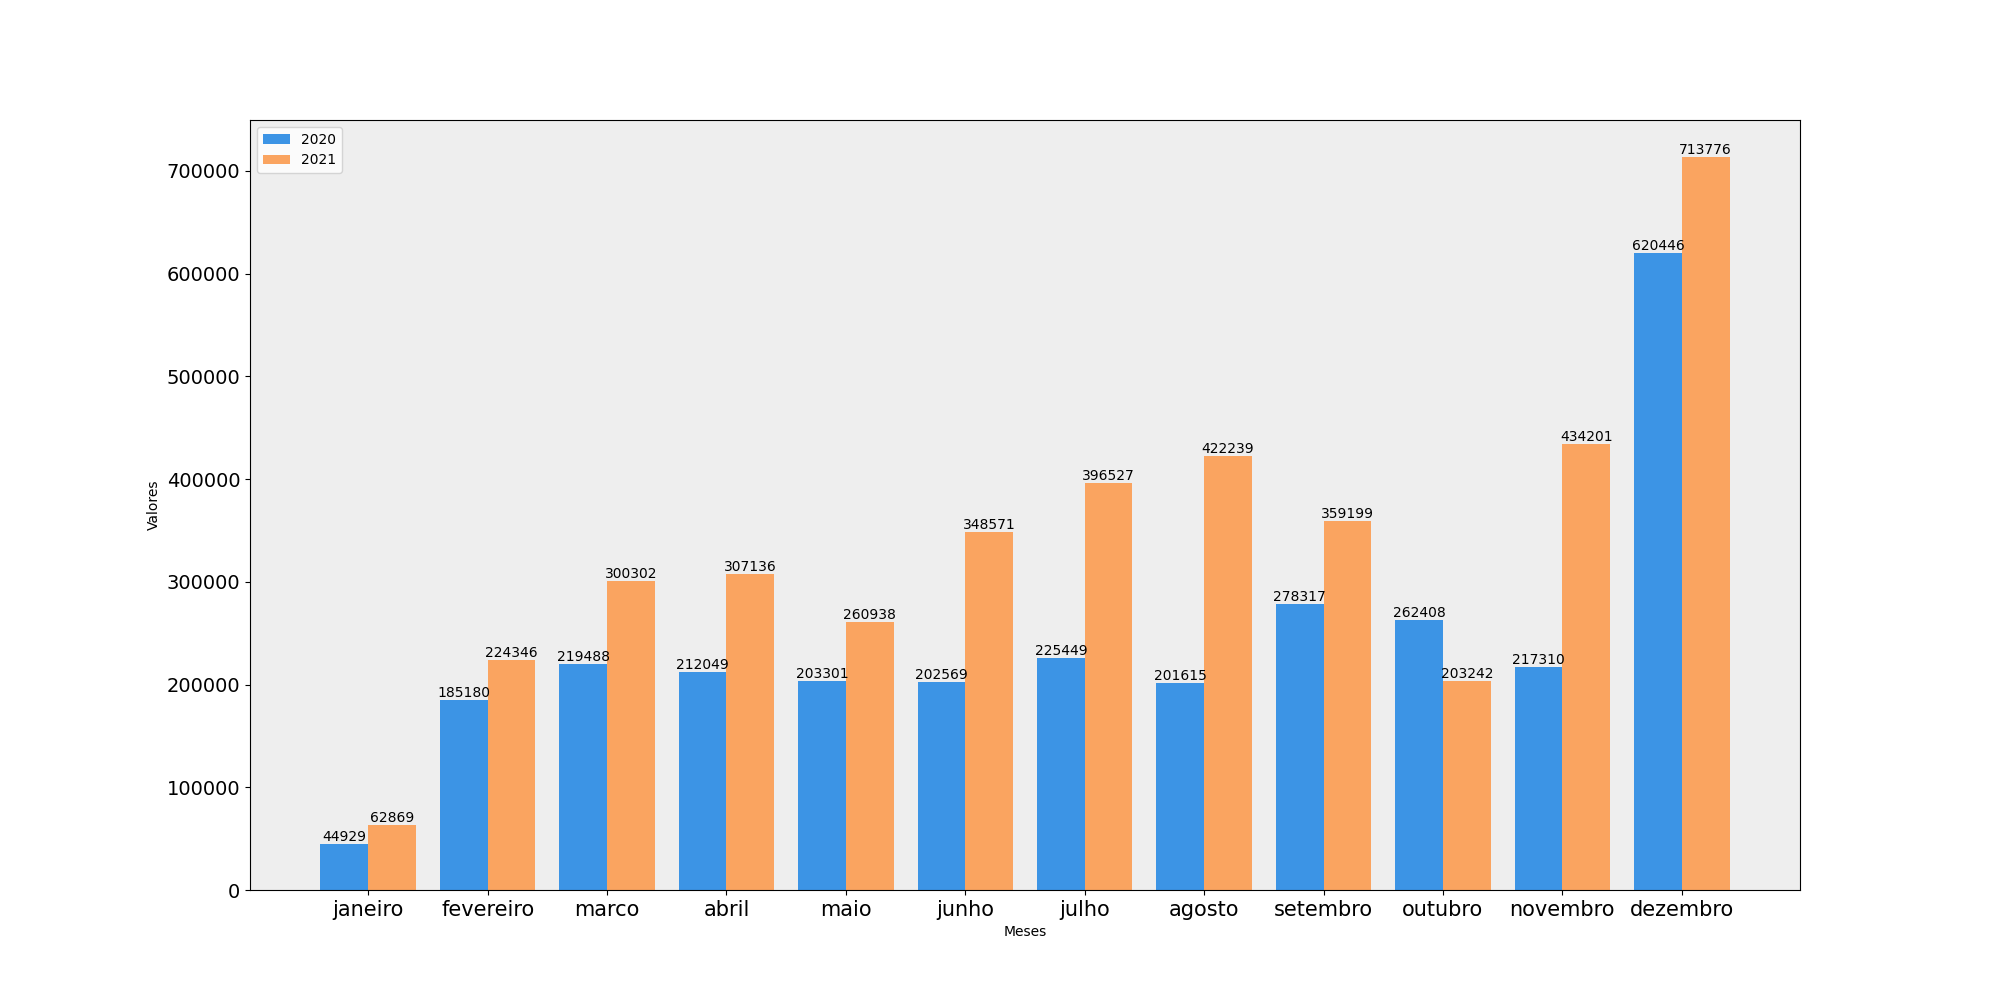
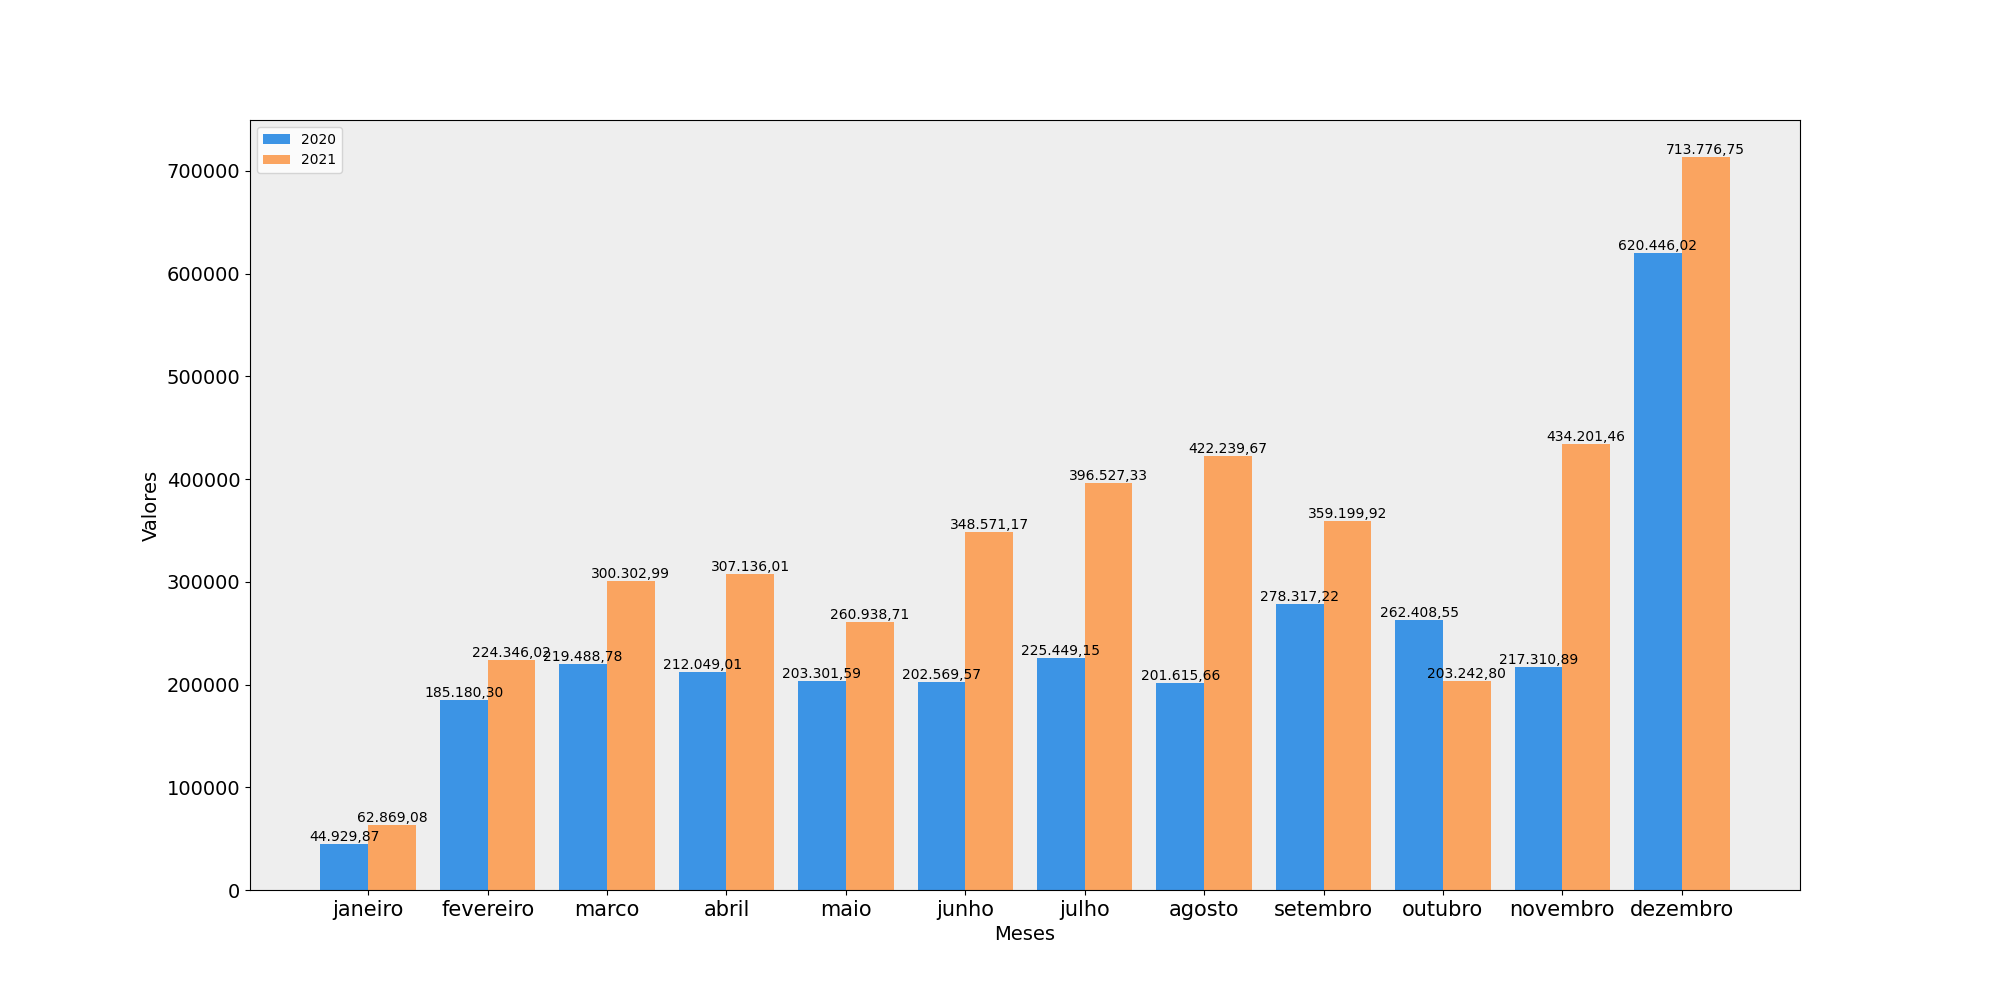
up

diff --git a/apps/grafico/views.py b/apps/grafico/views.py
@@ -346,6 +346,7 @@ class GerarRelatorioGrafico(LoginRequiredMixin, View):
                     meses = meses_list[indice_filtro_1:indice_filtro_2 +1]
 
                     valores_2 = list(objeto[mes] for mes in meses )  
+                    print(valores_2[0])
         else:
             valores_2 = valores
 
@@ -363,23 +364,26 @@ class GerarRelatorioGrafico(LoginRequiredMixin, View):
         # plt.plot(meses_1, valores_1, marker='o', linestyle='-', color='b', label=ano_1)
         # plt.plot(meses_2, valores_2, marker='o', linestyle='--', color='r', label=ano_2)
 
-        # Adicionar valores em cima das barras
+        # Função para formatar o valor em R$
+        def formatar_valor(valor):
+            return f'{valor:,.2f}'.replace(',', 'X').replace('.', ',').replace('X', '.')
+
+        # Adicionar valores em cima das barras com formatação R$
         for bar in bars1:
             yval = bar.get_height()  # Obtém a altura da barra
-            plt.text(bar.get_x() + bar.get_width() / 2, yval, int(yval), ha='center', va='bottom')  # Adiciona o texto
+            plt.text(bar.get_x() + bar.get_width() / 2, yval, formatar_valor(yval), ha='center', va='bottom')  # Adiciona o texto com rotação
 
-        # Adicionar valores em cima das barras
         for bar in bars2:
             yval = bar.get_height()  # Obtém a altura da barra
-            plt.text(bar.get_x() + bar.get_width() / 2, yval, int(yval), ha='center', va='bottom')  # Adiciona o texto
+            plt.text(bar.get_x() + bar.get_width() / 2, yval, formatar_valor(yval), ha='center', va='bottom')  # Adiciona o texto com rotação
 
         # Alterar a cor de fundo da área do gráfico
         plt.gca().set_facecolor('#eeeeee') 
 
         # Título e rótulos
         # plt.title('Gráfico de Arrecadação de Tributos')
-        plt.ylabel('Valores')
-        plt.xlabel('Meses')
+        plt.ylabel('Valores', fontsize=14)
+        plt.xlabel('Meses', fontsize=14)
         plt.xticks(x, meses, fontsize=15)  # Rótulos dos meses
         plt.yticks(fontsize=14)  # Rótulos da média de valores
         plt.legend()  # Exibir legenda
@@ -391,12 +395,12 @@ class GerarRelatorioGrafico(LoginRequiredMixin, View):
         # Imagem do gráfico
         pdf.image('static/img/grafico.png', -15, 25, 240) #x=-15, y=22, tamanho imagem=240
 
-        pdf.set_font("Arial", size=15)  # Defina a fonte e o tamanho
+        pdf.set_font("Arial", style='B', size=15)  # Defina a fonte e o tamanho
         pdf.set_text_color(255, 255, 255)  # RGB para branco
         pdf.cell(200, 2, txt="ARRECADAÇÃO MENSAL DE TRIBUTOS", ln=True, align='C')
 
         # Text Receita
-        pdf.set_font("Arial", size=15)  # Defina a fonte e o tamanho
+        pdf.set_font("Arial", style='B', size=15)  # Defina a fonte e o tamanho
         pdf.set_text_color(255, 255, 255)  # RGB para branco
         pdf.cell(200, 12, txt=receita.nome, ln=True, align='C')
 
